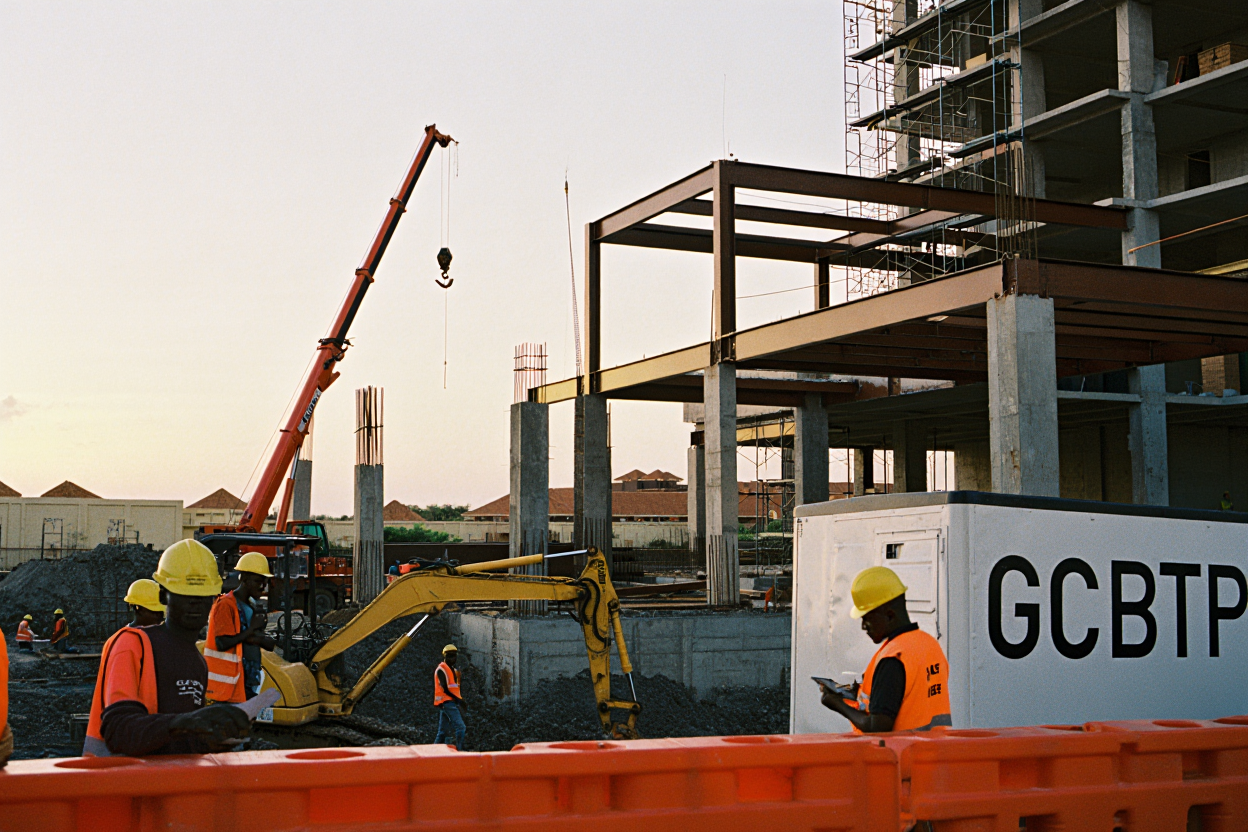
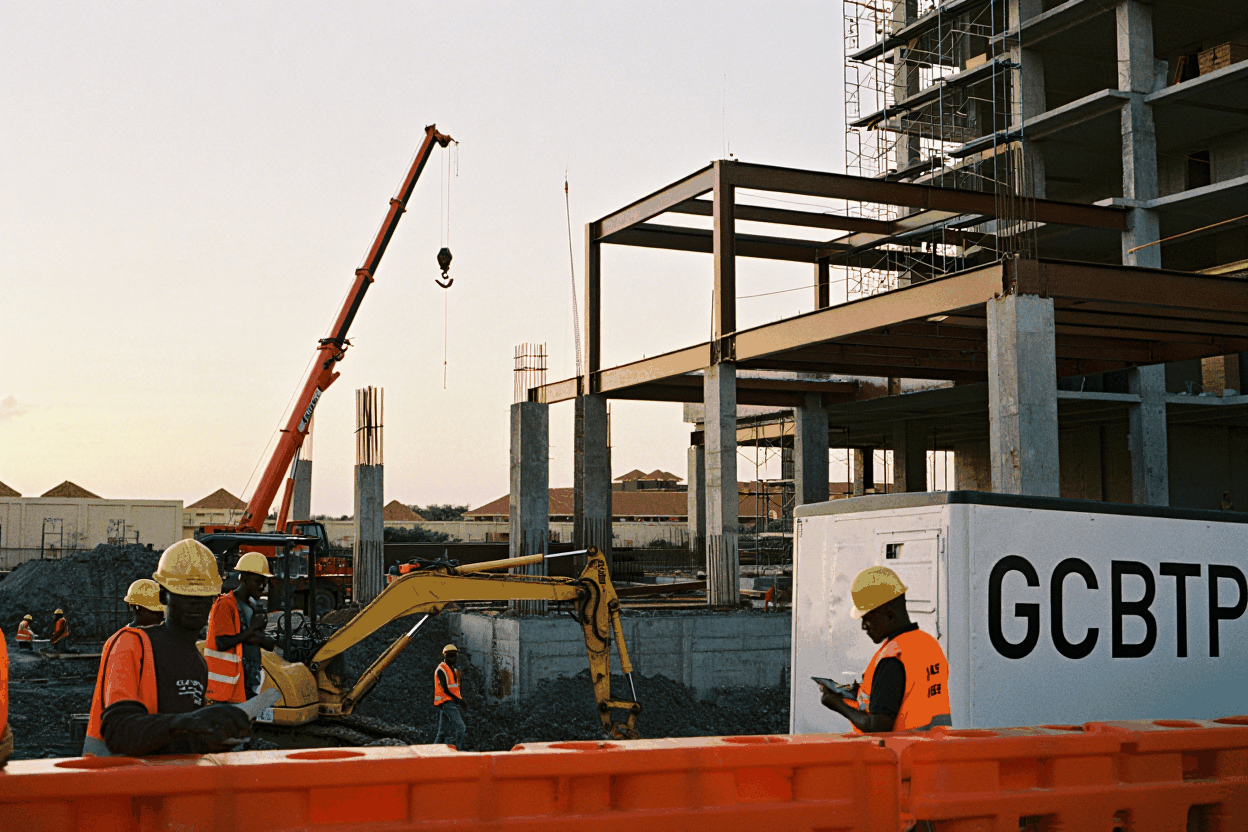
perf: compress PNG images and enable lazy loading
- Compress 20 PNG images with quantization and 1920px max width
  (41 MB -> 8 MB, ~81% reduction)
- Add loading="lazy" to 47 img tags across 8 HTML pages
  (logo excluded to avoid above-the-fold delay)

diff --git a/index.html b/index.html
@@ -439,7 +439,7 @@ Rapport automatique quotidien GCBTP`);
     </script>
     <noscript><img height="1" width="1" style="display:none"
         src="https://www.facebook.com/tr?id=YOUR_PIXEL_ID&ev=PageView&noscript=1"
-    /></noscript>
+    / loading="lazy"></noscript>
     -->
 </head>
 <body>
@@ -496,7 +496,7 @@ Rapport automatique quotidien GCBTP`);
     <!-- Hero Section -->
     <section id="accueil" class="hero">
         <div class="hero-bg">
-            <img src="Images/acceuil.png" alt="GUINDO CONSTRUCTION BTP Couverture">
+            <img src="Images/acceuil.png" alt="GUINDO CONSTRUCTION BTP Couverture" loading="lazy">
             <div class="hero-overlay"></div>
         </div>
         <div class="hero-particles" id="heroParticles"></div>
@@ -657,12 +657,12 @@ Rapport automatique quotidien GCBTP`);
                 </div>
                 <div class="about-image">
                     <div style="display: flex; flex-direction: column; gap: 18px; height: 100%;">
-                        <img src="Images/bureau gcbtp.png" alt="Bureau GCBTP" style="width:100%;height:44%;object-fit:cover;border-radius:16px;box-shadow:0 4px 24px #0002;display:block;">
-                        <img src="Images/gcbtp1.png" alt="GCBTP 1" style="width:100%;height:44%;object-fit:cover;border-radius:16px;box-shadow:0 4px 24px #0002;display:block;">
+                        <img src="Images/bureau gcbtp.png" alt="Bureau GCBTP" style="width:100%;height:44%;object-fit:cover;border-radius:16px;box-shadow:0 4px 24px #0002;display:block;" loading="lazy">
+                        <img src="Images/gcbtp1.png" alt="GCBTP 1" style="width:100%;height:44%;object-fit:cover;border-radius:16px;box-shadow:0 4px 24px #0002;display:block;" loading="lazy">
                         <div style="display:flex;gap:8px;height:calc(12% - 8px);margin-top:8px;">
-                            <img src="Images/b1.png" alt="Intérieur bureau 1" style="flex:1 1 0;object-fit:cover;border-radius:10px;box-shadow:0 2px 8px #0001;height:100%;width:0;min-width:0;">
-                            <img src="Images/b2.png" alt="Intérieur bureau 2" style="flex:1 1 0;object-fit:cover;border-radius:10px;box-shadow:0 2px 8px #0001;height:100%;width:0;min-width:0;">
-                            <img src="Images/b3.png" alt="Intérieur bureau 3" style="flex:1 1 0;object-fit:cover;border-radius:10px;box-shadow:0 2px 8px #0001;height:100%;width:0;min-width:0;">
+                            <img src="Images/b1.png" alt="Intérieur bureau 1" style="flex:1 1 0;object-fit:cover;border-radius:10px;box-shadow:0 2px 8px #0001;height:100%;width:0;min-width:0;" loading="lazy">
+                            <img src="Images/b2.png" alt="Intérieur bureau 2" style="flex:1 1 0;object-fit:cover;border-radius:10px;box-shadow:0 2px 8px #0001;height:100%;width:0;min-width:0;" loading="lazy">
+                            <img src="Images/b3.png" alt="Intérieur bureau 3" style="flex:1 1 0;object-fit:cover;border-radius:10px;box-shadow:0 2px 8px #0001;height:100%;width:0;min-width:0;" loading="lazy">
                         </div>
                     </div>
                 </div>
@@ -679,7 +679,7 @@ Rapport automatique quotidien GCBTP`);
                 <div class="project-card">
                     <a href="hotel-deep-c.html" class="project-link">
                         <div class="project-img-container">
-                            <img src="Images/Hotel1.png" alt="Hôtel de Luxe">
+                            <img src="Images/Hotel1.png" alt="Hôtel de Luxe" loading="lazy">
                         </div>
                         <div class="project-title">HÔTEL DE LUXE</div>
                     </a>
@@ -687,7 +687,7 @@ Rapport automatique quotidien GCBTP`);
                 <div class="project-card">
                     <a href="hotel-medina-gardens.html" class="project-link">
                         <div class="project-img-container">
-                            <img src="Images/Hotel2.png" alt="Hôtel MÉDINA GARDENS">
+                            <img src="Images/Hotel2.png" alt="Hôtel MÉDINA GARDENS" loading="lazy">
                         </div>
                         <div class="project-title">HÔTEL MÉDINA GARDENS</div>
                     </a>
@@ -695,7 +695,7 @@ Rapport automatique quotidien GCBTP`);
                 <div class="project-card">
                     <a href="hotel-hopital-ibn-rochd.html" class="project-link">
                         <div class="project-img-container">
-                            <img src="Images/Hotel3.png" alt="URGENCES DE L'HÔPITAL IBN ROCHD">
+                            <img src="Images/Hotel3.png" alt="URGENCES DE L'HÔPITAL IBN ROCHD" loading="lazy">
                         </div>
                         <div class="project-title">URGENCES DE L’HÔPITAL IBN ROCHD</div>
                     </a>
@@ -703,7 +703,7 @@ Rapport automatique quotidien GCBTP`);
                 <div class="project-card">
                     <a href="villa-thies.html" class="project-link">
                         <div class="project-img-container">
-                            <img src="Images/construction-villa-maroc-scaled.jpg" alt="Construction Villa Thiès">
+                            <img src="Images/construction-villa-maroc-scaled.jpg" alt="Construction Villa Thiès" loading="lazy">
                         </div>
                         <div class="project-title">CONSTRUCTION VILLA THIÈS</div>
                     </a>
@@ -711,7 +711,7 @@ Rapport automatique quotidien GCBTP`);
                 <div class="project-card">
                     <a href="centre-vacances-douanes.html" class="project-link">
                         <div class="project-img-container">
-                            <img src="Images/Hotel5.png" alt="CENTRE DE VACANCES DES DOUANES">
+                            <img src="Images/Hotel5.png" alt="CENTRE DE VACANCES DES DOUANES" loading="lazy">
                         </div>
                         <div class="project-title">CENTRE DE VACANCES DES DOUANES</div>
                     </a>
@@ -719,7 +719,7 @@ Rapport automatique quotidien GCBTP`);
                 <div class="project-card">
                     <a href="complexe-touristique-adama.html" class="project-link">
                         <div class="project-img-container">
-                            <img src="Images/Hotel6.png" alt="COMPLEXE TOURISTIQUE ADAMA">
+                            <img src="Images/Hotel6.png" alt="COMPLEXE TOURISTIQUE ADAMA" loading="lazy">
                         </div>
                         <div class="project-title">COMPLEXE TOURISTIQUE ADAMA</div>
                     </a>
@@ -727,7 +727,7 @@ Rapport automatique quotidien GCBTP`);
                 <div class="project-card">
                     <a href="hotel-wassado-cap-skiring.html" class="project-link">
                         <div class="project-img-container">
-                            <img src="Images/WASSADO IMAGES/WhatsApp Image 2025-10-05 à 16.08.18_41ac9478.jpg" alt="HÔTEL WASSADO - CAP SKIRING">
+                            <img src="Images/WASSADO IMAGES/WhatsApp Image 2025-10-05 à 16.08.18_41ac9478.jpg" alt="HÔTEL WASSADO - CAP SKIRING" loading="lazy">
                         </div>
                         <div class="project-title">HÔTEL WASSADO - CAP SKIRING</div>
                     </a>
@@ -752,7 +752,7 @@ Rapport automatique quotidien GCBTP`);
             <div class="team-members">
                 <div class="team-member">
                     <div class="member-photo">
-                        <img src="Images/MOUHAMED GUINDO.jpg" alt="Mouhamed Guindo - Directeur Général GCBTP" class="member-photo-img">
+                        <img src="Images/MOUHAMED GUINDO.jpg" alt="Mouhamed Guindo - Directeur Général GCBTP" class="member-photo-img" loading="lazy">
                     </div>
                     <div class="member-info">
                         <h3 class="member-name">Mouhamed GUINDO</h3>
@@ -768,7 +768,7 @@ Rapport automatique quotidien GCBTP`);
 
                 <div class="team-member">
                     <div class="member-photo">
-                        <img src="Images/ndeye amy lo.jpeg" alt="Ndeye Amy Lo - Gestionnaire de Projet GCBTP" class="member-photo-img">
+                        <img src="Images/ndeye amy lo.jpeg" alt="Ndeye Amy Lo - Gestionnaire de Projet GCBTP" class="member-photo-img" loading="lazy">
                     </div>
                     <div class="member-info">
                         <h3 class="member-name">Ndeye Amy Lo</h3>
@@ -783,7 +783,7 @@ Rapport automatique quotidien GCBTP`);
 
                 <div class="team-member">
                     <div class="member-photo">
-                        <img src="Images/Bernard Bertrand Kdehouch MALO.jpeg" alt="Bernard Bertrand Kdehouch MALO - Conducteur de Travaux GCBTP" class="member-photo-img">
+                        <img src="Images/Bernard Bertrand Kdehouch MALO.jpeg" alt="Bernard Bertrand Kdehouch MALO - Conducteur de Travaux GCBTP" class="member-photo-img" loading="lazy">
                     </div>
                     <div class="member-info">
                         <h3 class="member-name">Bernard Bertrand Kdehouch MALO</h3>
@@ -832,7 +832,7 @@ Rapport automatique quotidien GCBTP`);
 
                 <div class="team-member">
                     <div class="member-photo">
-                        <img src="Images/becaye guindo.png" alt="Becaye Guindo - Agent de Coordination GCBTP" class="member-photo-img">
+                        <img src="Images/becaye guindo.png" alt="Becaye Guindo - Agent de Coordination GCBTP" class="member-photo-img" loading="lazy">
                     </div>
                     <div class="member-info">
                         <h3 class="member-name">Becaye GUINDO</h3>
@@ -847,7 +847,7 @@ Rapport automatique quotidien GCBTP`);
 
                 <div class="team-member">
                     <div class="member-photo">
-                        <img src="Images/WhatsApp Image 2025-12-29 at 02.42.20.jpeg" alt="Abdou Lahat Gaye - Ingénieur en Génie Civil GCBTP" class="member-photo-img">
+                        <img src="Images/WhatsApp Image 2025-12-29 at 02.42.20.jpeg" alt="Abdou Lahat Gaye - Ingénieur en Génie Civil GCBTP" class="member-photo-img" loading="lazy">
                     </div>
                     <div class="member-info">
                         <h3 class="member-name">ABDOU LAHAT GAYE</h3>
@@ -919,9 +919,9 @@ Rapport automatique quotidien GCBTP`);
                 </div>
                 <div class="carrieres-right">
                     <div class="carrieres-images">
-                        <img src="Images/4.png" alt="Rejoignez GCBTP" style="max-width:100%;border-radius:12px;box-shadow:0 2px 8px #0001;margin-bottom:20px;">
+                        <img src="Images/4.png" alt="Rejoignez GCBTP" style="max-width:100%;border-radius:12px;box-shadow:0 2px 8px #0001;margin-bottom:20px;" loading="lazy">
                         <div class="founder-photo scale-in">
-                            <img src="Images/MOUHAMED GUINDO.jpg" alt="Mouhamed Guindo - Directeur Général GCBTP" style="max-width:100%;border-radius:12px;box-shadow:0 4px 16px rgba(0,0,0,0.15);">
+                            <img src="Images/MOUHAMED GUINDO.jpg" alt="Mouhamed Guindo - Directeur Général GCBTP" style="max-width:100%;border-radius:12px;box-shadow:0 4px 16px rgba(0,0,0,0.15);" loading="lazy">
                             <div class="founder-info">
                                 <h4>Mouhamed GUINDO</h4>
                                 <p>Directeur Général & Fondateur</p>
@@ -945,7 +945,7 @@ Rapport automatique quotidien GCBTP`);
                     
                     <!-- Image illustrative du processus de devis -->
                     <div class="devis-process-image scale-in">
-                        <img src="Images/Devis travaux.jpg" alt="Équipe GCBTP travaillant sur des plans de construction - Processus de devis professionnel" style="width: 100%; max-width: 500px; border-radius: 12px; box-shadow: 0 8px 32px rgba(0,0,0,0.1); margin: 20px 0;">
+                        <img src="Images/Devis travaux.jpg" alt="Équipe GCBTP travaillant sur des plans de construction - Processus de devis professionnel" style="width: 100%; max-width: 500px; border-radius: 12px; box-shadow: 0 8px 32px rgba(0,0,0,0.1); margin: 20px 0;" loading="lazy">
                         <p style="text-align: center; font-style: italic; color: #666; font-size: 0.9em; margin-top: 10px;">
                             Notre équipe d'experts analyse vos plans pour vous proposer le devis le plus précis
                         </p>

diff --git a/hotel-wassado-cap-skiring.html b/hotel-wassado-cap-skiring.html
@@ -466,21 +466,21 @@
             <h2 class="section-title">Galerie du Projet</h2>
             <div class="gallery-grid">
                 <div class="gallery-item main-gallery">
-                    <img src="Images/WASSADO IMAGES/WhatsApp Image 2025-10-05 à 16.08.18_41ac9478.jpg" alt="Hôtel Wassado - Vue générale" id="mainGalleryImg">
+                    <img src="Images/WASSADO IMAGES/WhatsApp Image 2025-10-05 à 16.08.18_41ac9478.jpg" alt="Hôtel Wassado - Vue générale" id="mainGalleryImg" loading="lazy">
                 </div>
                 <div class="gallery-thumbnails">
-                    <img src="Images/WASSADO IMAGES/WhatsApp Image 2025-10-05 à 16.08.18_41ac9478.jpg" alt="Vue générale" onclick="changeGalleryImg(this)">
-                    <img src="Images/WASSADO IMAGES/WhatsApp Image 2025-10-05 à 16.08.18_56bd2b6c.jpg" alt="Installation électrique" onclick="changeGalleryImg(this)">
-                    <img src="Images/WASSADO IMAGES/WhatsApp Image 2025-10-05 à 16.08.18_57c97925.jpg" alt="Réseaux plomberie" onclick="changeGalleryImg(this)">
-                    <img src="Images/WASSADO IMAGES/WhatsApp Image 2025-10-05 à 16.08.18_6e996203.jpg" alt="Travaux en cours" onclick="changeGalleryImg(this)">
-                    <img src="Images/WASSADO IMAGES/WhatsApp Image 2025-10-05 à 16.08.18_741e7ad8.jpg" alt="Détails techniques" onclick="changeGalleryImg(this)">
-                    <img src="Images/WASSADO IMAGES/WhatsApp Image 2025-10-05 à 16.08.18_c4f87eaa.jpg" alt="Installations" onclick="changeGalleryImg(this)">
-                    <img src="Images/WASSADO IMAGES/WhatsApp Image 2025-10-06 à 20.43.32_0b378c63.jpg" alt="Progression travaux" onclick="changeGalleryImg(this)">
-                    <img src="Images/WASSADO IMAGES/WhatsApp Image 2025-10-06 à 20.43.35_47261f7f.jpg" alt="Équipements" onclick="changeGalleryImg(this)">
-                    <img src="Images/WASSADO IMAGES/WhatsApp Image 2025-10-06 à 20.43.35_fa280e3c.jpg" alt="Finitions" onclick="changeGalleryImg(this)">
-                    <img src="Images/WASSADO IMAGES/WhatsApp Image 2025-10-08 à 20.34.19_9565a61b.jpg" alt="Contrôle qualité" onclick="changeGalleryImg(this)">
-                    <img src="Images/WASSADO IMAGES/WhatsApp Image 2025-10-12 à 17.40.29_fe2a3f2e.jpg" alt="Mise en service" onclick="changeGalleryImg(this)">
-                    <img src="Images/WASSADO IMAGES/WhatsApp Image 2025-10-12 à 17.41.01_3afa5b7b.jpg" alt="Tests finaux" onclick="changeGalleryImg(this)">
+                    <img src="Images/WASSADO IMAGES/WhatsApp Image 2025-10-05 à 16.08.18_41ac9478.jpg" alt="Vue générale" onclick="changeGalleryImg(this)" loading="lazy">
+                    <img src="Images/WASSADO IMAGES/WhatsApp Image 2025-10-05 à 16.08.18_56bd2b6c.jpg" alt="Installation électrique" onclick="changeGalleryImg(this)" loading="lazy">
+                    <img src="Images/WASSADO IMAGES/WhatsApp Image 2025-10-05 à 16.08.18_57c97925.jpg" alt="Réseaux plomberie" onclick="changeGalleryImg(this)" loading="lazy">
+                    <img src="Images/WASSADO IMAGES/WhatsApp Image 2025-10-05 à 16.08.18_6e996203.jpg" alt="Travaux en cours" onclick="changeGalleryImg(this)" loading="lazy">
+                    <img src="Images/WASSADO IMAGES/WhatsApp Image 2025-10-05 à 16.08.18_741e7ad8.jpg" alt="Détails techniques" onclick="changeGalleryImg(this)" loading="lazy">
+                    <img src="Images/WASSADO IMAGES/WhatsApp Image 2025-10-05 à 16.08.18_c4f87eaa.jpg" alt="Installations" onclick="changeGalleryImg(this)" loading="lazy">
+                    <img src="Images/WASSADO IMAGES/WhatsApp Image 2025-10-06 à 20.43.32_0b378c63.jpg" alt="Progression travaux" onclick="changeGalleryImg(this)" loading="lazy">
+                    <img src="Images/WASSADO IMAGES/WhatsApp Image 2025-10-06 à 20.43.35_47261f7f.jpg" alt="Équipements" onclick="changeGalleryImg(this)" loading="lazy">
+                    <img src="Images/WASSADO IMAGES/WhatsApp Image 2025-10-06 à 20.43.35_fa280e3c.jpg" alt="Finitions" onclick="changeGalleryImg(this)" loading="lazy">
+                    <img src="Images/WASSADO IMAGES/WhatsApp Image 2025-10-08 à 20.34.19_9565a61b.jpg" alt="Contrôle qualité" onclick="changeGalleryImg(this)" loading="lazy">
+                    <img src="Images/WASSADO IMAGES/WhatsApp Image 2025-10-12 à 17.40.29_fe2a3f2e.jpg" alt="Mise en service" onclick="changeGalleryImg(this)" loading="lazy">
+                    <img src="Images/WASSADO IMAGES/WhatsApp Image 2025-10-12 à 17.41.01_3afa5b7b.jpg" alt="Tests finaux" onclick="changeGalleryImg(this)" loading="lazy">
                 </div>
             </div>
         </div>

diff --git a/hotel-hopital-ibn-rochd.html b/hotel-hopital-ibn-rochd.html
@@ -115,9 +115,9 @@
       <div class="project-detail-row">
         <div class="project-gallery-col">
           <div class="project-gallery-row" style="margin-top:48px;">
-            <img src="Images/Hotel3.png" alt="URGENCES DE L'HÔPITAL IBN ROCHD 1">
-            <img src="Images/Hotel3.png" alt="URGENCES DE L'HÔPITAL IBN ROCHD 2">
-            <img src="Images/Hotel3.png" alt="URGENCES DE L'HÔPITAL IBN ROCHD 3">
+            <img src="Images/Hotel3.png" alt="URGENCES DE L'HÔPITAL IBN ROCHD 1" loading="lazy">
+            <img src="Images/Hotel3.png" alt="URGENCES DE L'HÔPITAL IBN ROCHD 2" loading="lazy">
+            <img src="Images/Hotel3.png" alt="URGENCES DE L'HÔPITAL IBN ROCHD 3" loading="lazy">
           </div>
         </div>
         <div class="project-info-col">

diff --git a/hotel-medina-gardens.html b/hotel-medina-gardens.html
@@ -119,9 +119,9 @@
       <div class="project-detail-row">
         <div class="project-gallery-col">
           <div class="project-gallery-row" style="margin-top:48px;">
-            <img src="Images/Hotel2.png" alt="Hôtel MÉDINA GARDENS 1">
-            <img src="Images/Hotel2.png" alt="Hôtel MÉDINA GARDENS 2">
-            <img src="Images/Hotel2.png" alt="Hôtel MÉDINA GARDENS 3">
+            <img src="Images/Hotel2.png" alt="Hôtel MÉDINA GARDENS 1" loading="lazy">
+            <img src="Images/Hotel2.png" alt="Hôtel MÉDINA GARDENS 2" loading="lazy">
+            <img src="Images/Hotel2.png" alt="Hôtel MÉDINA GARDENS 3" loading="lazy">
           </div>
         </div>
         <div class="project-info-col">

diff --git a/hotel-deep-c.html b/hotel-deep-c.html
@@ -132,9 +132,9 @@
       <div class="project-detail-row">
         <div class="project-gallery-col">
           <div class="project-gallery-row" style="margin-top:48px;">
-            <img src="Images/hotel/h1.png" alt="Hôtel KEUR-DAKAR 1">
-            <img src="Images/hotel/h2.png" alt="Hôtel KEUR-DAKAR 2">
-            <img src="Images/hotel/h3.png" alt="Hôtel KEUR-DAKAR 3">
+            <img src="Images/hotel/h1.png" alt="Hôtel KEUR-DAKAR 1" loading="lazy">
+            <img src="Images/hotel/h2.png" alt="Hôtel KEUR-DAKAR 2" loading="lazy">
+            <img src="Images/hotel/h3.png" alt="Hôtel KEUR-DAKAR 3" loading="lazy">
           </div>
         </div>
         <div class="project-info-col">

diff --git a/villa-thies.html b/villa-thies.html
@@ -599,7 +599,7 @@
             <div class="project-content">
                 <div class="project-main">
                     <div class="project-image">
-                        <img src="Images/construction-villa-maroc-scaled.jpg" alt="Construction Villa Thiès - Vue d'ensemble">
+                        <img src="Images/construction-villa-maroc-scaled.jpg" alt="Construction Villa Thiès - Vue d'ensemble" loading="lazy">
                     </div>
                     
                     <div class="project-description">

diff --git a/complexe-touristique-adama.html b/complexe-touristique-adama.html
@@ -530,7 +530,7 @@
             <div class="project-content">
                 <div class="project-main">
                     <div class="project-image">
-                        <img src="Images/Hotel6.png" alt="Complexe Touristique Adama">
+                        <img src="Images/Hotel6.png" alt="Complexe Touristique Adama" loading="lazy">
                     </div>
                     
                     <div class="project-description">

diff --git a/centre-vacances-douanes.html b/centre-vacances-douanes.html
@@ -530,7 +530,7 @@
             <div class="project-content">
                 <div class="project-main">
                     <div class="project-image">
-                        <img src="Images/Hotel5.png" alt="Centre Vacances Douanes">
+                        <img src="Images/Hotel5.png" alt="Centre Vacances Douanes" loading="lazy">
                     </div>
                     
                     <div class="project-description">
